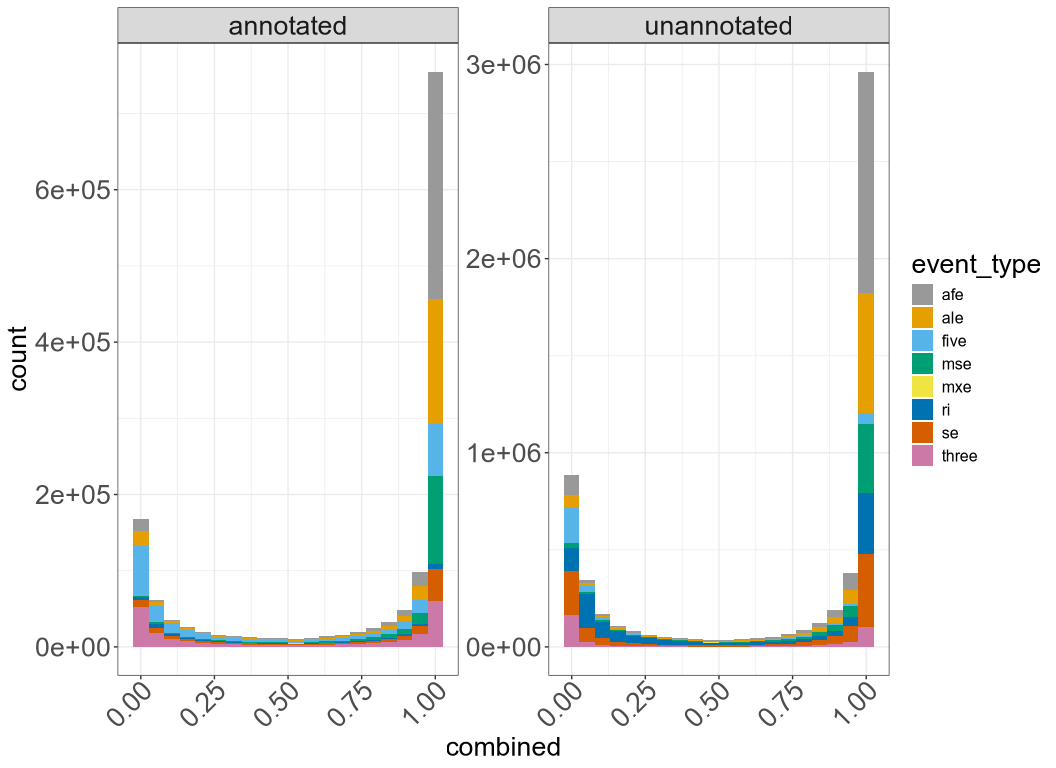
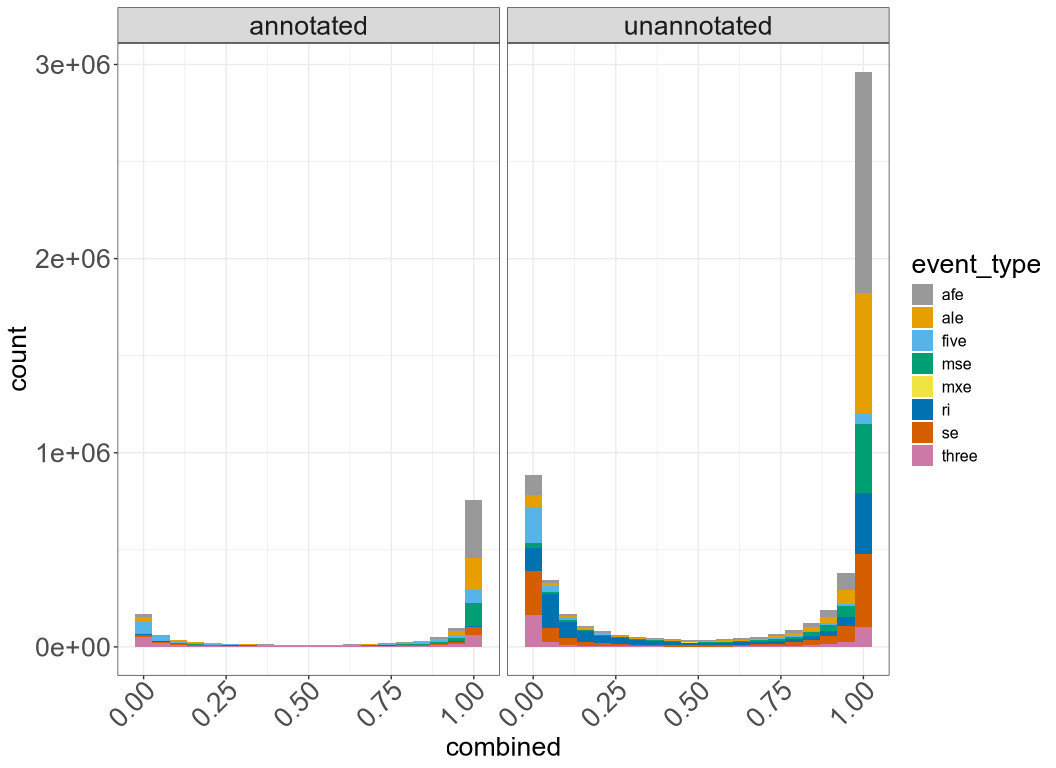
update figures and makrdown

diff --git a/exploration/merging-psi-tables/target_pilot/compare_merged_psi_table.md b/exploration/merging-psi-tables/target_pilot/compare_merged_psi_table.md
@@ -20,8 +20,8 @@ with different negative values:
 
 - -2: NA values from merging the separate tables together (samples have
   a NA value after this step if there are genes dropped by Shiba for
-  those samples because there is only one transcript detected for that
-  gene)
+  those samples because there is only one transcript detected in the GTF
+  for that gene)
 
 - NA: NA values from merging the separate and combined tables. These NAs
   represent splice events that are only found in one analysis method
@@ -82,6 +82,22 @@ psi_distributions <- function(
           axis.text.x = element_text(angle =45))
 }
 
+# create summary table of events detected
+make_event_summary <- function (events_table) { 
+  events_table |>
+    dplyr::summarise(
+      .by = c(event_type, label),
+      # count number of events in each event type and annotation category
+      total = dplyr::n(),
+      shared_count = sum(shared_event),
+      combined_only_count = sum(combined_event) - shared_count,
+      separate_only_count = sum(separate_event) - shared_count,
+      shared_percent = shared_count / total * 100,
+      combined_only_percent = combined_only_count / total * 100,
+      separate_only_percent = separate_only_count / total * 100,
+    )
+}
+
 # plot event summary frequencies as percent and raw counts bar plots
 plot_event_summary <- function(
     summary_df) {
@@ -125,7 +141,7 @@ plot_event_summary <- function(
       x = "Annotation status of event",,
       y = "Number of events"
     ) +
-    facet_wrap(vars(label), scales = "free_y") +
+    facet_wrap(vars(label)) +
     scale_x_discrete(guide = guide_axis(angle = 45)) +
     plot_theme
 
@@ -142,7 +158,7 @@ number_events_dist <- function(
     # construct histogram
     ggplot(df,  aes(x = .data[[psi_type]], fill = event_type)) +
     geom_histogram(binwidth = 1) +
-    facet_wrap(vars(label), scales = "free_y") +
+    facet_wrap(vars(label)) +
     scale_fill_manual(values = cbPalette) +
     plot_theme +
     # make facet labels bigger
@@ -245,7 +261,7 @@ psi_values_lost_in_tables <- function(na_comparison_df, match_queried) {
     dplyr::filter(match_category == match_queried,) |>
       ggplot(aes(combined, fill = event_type)) +
       geom_histogram(bins = 20) +
-      facet_wrap(vars(label), scales = "free_y") +
+      facet_wrap(vars(label)) +
     scale_fill_manual(values = cbPalette) +
       plot_theme +
       # make facet labels bigger
@@ -391,6 +407,10 @@ all_methods_summary
 | shared_count | combined_only_count | separate_only_count |
 |-------------:|--------------------:|--------------------:|
 |       667022 |               79579 |              151390 |
+
+Although the majority of splice events (inclusive of NA values) are
+shared between methods, there are about twice as many splice events only
+in the separate method’s table than the combined method.
 
 Print summary of counts and percentages across each method, broken down
 by event type
@@ -646,11 +666,16 @@ Figure 3
 
 </div>
 
-Observations: - Although most events are shared after applying this
-filter and we still have unannotated events, we also still have events
-only found in the separate table. These events are harder to deal with
-because they may be real events mislabeled by Shiba, or they may be
-unreal events (we cannot easily tell)
+Observations:
+
+- Although most events are shared after applying this filter and we
+  still have unannotated events, we also still have events only found in
+  the separate table. These events are harder to deal with because they
+  may be real events mislabeled by Shiba, or they may be unreal events
+  (we cannot easily tell)
+
+- Additionally, we still see that most unannotated events are no longer
+  present after this filtering.
 
 Print table of splice event counts of filtered table
 
@@ -678,15 +703,19 @@ all_events_summary_min_samples |>
 | ri         | annotated   |         9585 |                1675 |                   0 |
 | ri         | unannotated |         6692 |                1139 |                   0 |
 
-Observations: - Although most events are shared after applying this
-filter and we still have unannotated events, we also still have events
-only found in the separate table. These events are harder to deal with
-because they may be real events mislabeled by Shiba, or they may be
-unreal events (we cannot easily tell)
+Observations:
+
+- Once the “splice event with numeric value in at least 5 samples”
+  filter is applied, there are no longer splice events only in the
+  combined method’s PSI table.
+
+- The combined method is expected capture more events found in fewer
+  samples, due to calculating splice events usage defined from a more
+  complete set of events.
 
 ## How many of each splice event types are quantified?
 
-Histogram of quantified events
+### Histogram of quantified events
 
 ``` r
 number_events_dist(all_events, "n_quantified_separate", "Number of quantified PSI values in separate table") /
@@ -704,10 +733,38 @@ Figure 4
 
 </div>
 
-As expected, we have more observations of quantified unannotated PSI
-values in the combined table
+Check skipped exon quantified PSI histograms
 
-Histogram of events dropped by Shiba due to insufficient read counts
+``` r
+all_events |>
+  dplyr::filter(event_type == "se") |>
+  number_events_dist("n_quantified_separate", "Number of quantified PSI values in separate table") /
+
+all_events |>
+  dplyr::filter(event_type == "se") |>
+  number_events_dist("n_quantified_combined", "Number of quantified PSI values in combined table") + plot_layout(guides = "collect")
+```
+
+<div id="fig-num_quantified_psi_se">
+
+<img
+src="compare_merged_psi_table_files/figure-commonmark/fig-num_quantified_psi_se-1.png"
+id="fig-num_quantified_psi_se" />
+
+Figure 5
+
+</div>
+
+As expected, we have more observations of quantified unannotated PSI
+values in the combined table (higher bars at the end of the X axis).
+More critically, the unannotated observations in the combined table that
+we lose in the separate tables seem to be quantified in most of the
+TARGET pilot samples.
+
+The following histograms show the counts of PSI values that are DROPPED
+in each method.
+
+### Histogram of events dropped by Shiba due to insufficient read counts
 
 ``` r
 number_events_dist(all_events, "n_shiba_na_separate", "Number of PSIs dropped due to insufficient read counts in separate table") /
@@ -721,23 +778,30 @@ number_events_dist(all_events, "n_shiba_na_combined", "Number of PSIs dropped du
 src="compare_merged_psi_table_files/figure-commonmark/fig-num_low_read_na-1.png"
 id="fig-num_low_read_na" />
 
-Figure 5
+Figure 6
 
 </div>
 
-Histogram of events dropped due to insufficient transcript
-representation
+There appear to be more events dropped across more samples in the
+combined results compared to the separate results. However, I think this
+is because the combined method captures more “rare” (e.g. present in
+only one sample) splice events. This would increase the overall pool of
+possible loci that could be sequenced so sparsely that they do not
+actually make it into PSI calculation.
+
+### Histogram of events dropped due to genes being thrown out in separate method
+
+I do not plot this for the combined table because they are all 0 (we
+only define what is dropped due to insufficient transcript
+representation based off what transcripts are missing when individual
+separate tables are merged).
 
 ``` r
-number_events_dist(all_events, "n_dropped_separate", "# PSIs dropped due to insufficient transcripts in separate table")
+number_events_dist(all_events, "n_dropped_separate", "# PSIs dropped due to gene being thrown out in separate table")
 ```
 
     Warning: Removed 79579 rows containing non-finite outside the scale range
     (`stat_bin()`).
-
-``` r
-# I do not plot this for the combined table because they are all 0 (we only define what is dropped due to insufficient transcript representation based off what is missing when individual separate tables are merged)
-```
 
 <div id="fig-num_low_transcript_na">
 
@@ -745,13 +809,14 @@ number_events_dist(all_events, "n_dropped_separate", "# PSIs dropped due to insu
 src="compare_merged_psi_table_files/figure-commonmark/fig-num_low_transcript_na-1.png"
 id="fig-num_low_transcript_na" />
 
-Figure 6
+Figure 7
 
 </div>
 
-I mainly see that these missing values are present more in the
-unannotated events \## How many of each splice event types are
-quantified?
+This category of missing values are inflated in unannotated events in
+the separate table.
+
+## How many of each splice event types are quantified?
 
 ## Examine sample-level splice events
 
@@ -781,20 +846,6 @@ colnames(long_all_events)
     [1] "event_type" "pos_id"     "label"      "sample"     "combined"  
     [6] "separate"  
 
-``` r
-# check some smaples
-head(long_all_events)
-```
-
-| event_type | pos_id | label | sample | combined | separate |
-|:---|:---|:---|:---|---:|---:|
-| se | SE@GL000008.2@129985-130583@85625-155430 | annotated | SRR1559043 | -1.0000 | -2.0000 |
-| se | SE@GL000008.2@129985-130583@85625-155430 | annotated | SRR1559044 | -1.0000 | -2.0000 |
-| se | SE@GL000008.2@129985-130583@85625-155430 | annotated | SRR1559052 | -1.0000 | -1.0000 |
-| se | SE@GL000008.2@129985-130583@85625-155430 | annotated | SRR1559054 | -1.0000 | -1.0000 |
-| se | SE@GL000008.2@129985-130583@85625-155430 | annotated | SRR1559075 | -1.0000 | -1.0000 |
-| se | SE@GL000008.2@129985-130583@85625-155430 | annotated | SRR1559100 | 0.6875 | 0.6875 |
-
 ### Write output
 
 Write long table into output
@@ -806,18 +857,20 @@ saveRDS(long_all_events, file = long_df_output)
 
 ### Examine relationships between of PSI and NA values of combined and separate tables
 
+#### Are PSI values of events that are shared between each method identical?
+
+``` r
+long_psi_in_both_df <- long_all_events |> dplyr::filter(combined > 0 & separate > 0)
+identical(long_psi_in_both_df$combined, long_psi_in_both_df$combined)
+```
+
+    [1] TRUE
+
+Yes, PSI values of shared events in both methods are identical.
+
 #### How well correlated are the PSI values and NAs in each splice table type?
 
-I decided to go with a plot instead of a table for this because the
-table is 170,000 rows long. From eyeballing the table in R, I saw a
-couple values that had -2 PSI values in the separate table and -1 in the
-combined table. But it was hard to get a sense of all the possible
-separate - combined PSI value and NA combinations
-
-Even though my function should drop NAs, I still get NAs in the separate
-PSI column. If I try to drop NAs at the end, I get en error that the
-datframe contains list-cols (Warning: Values from `PSI` are not uniquely
-identified; output will contain list-cols.)
+Plot the different types of matchup categories
 
 ``` r
 # plot basic scatterplot to see the different PSI value / NA matchup categories in the data
@@ -913,6 +966,9 @@ table, even with the min_samples filter.
 
 #### Plot PSI distribution of PSI values lost in each method
 
+This plot shows the distribution of the “true” values of -2 (“gene
+dropped”) NAs in the combined table.
+
 ##### Quantified PSI values dropped in separate tables due to lack of transcript diversity
 
 ``` r
@@ -921,3 +977,11 @@ psi_values_lost_in_tables(long_all_events, "PSI quantified in combined, dropped 
 ```
 
 ![](compare_merged_psi_table_files/figure-commonmark/psi_dist_of_combined_only_events-1.png)
+
+The PSI values of the “gene dropped” NAs span the full range of PSI
+values, so we miss out entirely on a wide range of values using the
+separate method.
+
+Following this analysis, we concluded that the Shiba splice compendium
+workflow needed to be modified to allow for the “gene dropped” NA values
+to be quantified.
